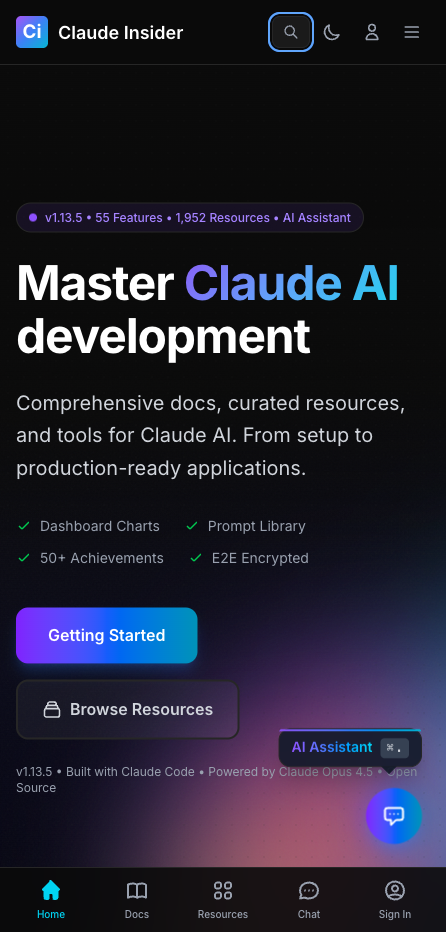
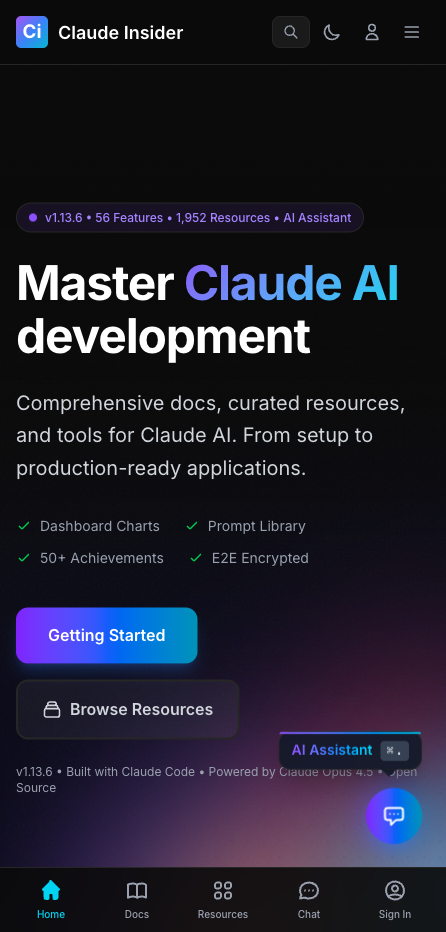
feat(mockups): update device mockups for v1.13.6
- Update MacBook terminal content to v1.13.6 with 56 features
- Show new features: Resource Submissions, Chat 4x Faster (RPC)
- Update mobile screenshot with dark theme and v1.13.6 badge

🤖 Generated with [Claude Code](https://claude.com/claude-code)

diff --git a/apps/web/components/device-mockups.tsx b/apps/web/components/device-mockups.tsx
@@ -283,7 +283,7 @@ export function IPhone17ProMax({
 }
 
 /**
- * Realistic terminal content showing Claude Insider v1.13.5
+ * Realistic terminal content showing Claude Insider v1.13.6
  */
 function MacBookTerminalContent() {
   return (
@@ -311,11 +311,11 @@ function MacBookTerminalContent() {
         <div className="mt-1">
           <span className="text-[#a371f7]">╭─</span>
           <span className="text-[#7ee787]"> Claude Insider</span>
-          <span className="text-[#8b949e]"> v1.13.5</span>
+          <span className="text-[#8b949e]"> v1.13.6</span>
         </div>
         <div>
           <span className="text-[#a371f7]">│</span>
-          <span className="text-[#8b949e]"> Features: 55 • Resources: 1,952+</span>
+          <span className="text-[#8b949e]"> Features: 56 • Resources: 1,952+</span>
         </div>
         <div>
           <span className="text-[#a371f7]">╰─</span>
@@ -323,10 +323,10 @@ function MacBookTerminalContent() {
         </div>
 
         <div className="mt-2 space-y-[3px]">
-          <div className="text-[#7ee787]">✓ ConversationView Consolidated</div>
-          <div className="text-[#7ee787]">✓ E2EE Setup Flow Improved</div>
-          <div className="text-[#7ee787]">✓ Matrix SDK Presence</div>
-          <div className="text-[#7ee787]">✓ Display Names Everywhere</div>
+          <div className="text-[#7ee787]">✓ Resource Submissions</div>
+          <div className="text-[#7ee787]">✓ Chat 4x Faster (RPC)</div>
+          <div className="text-[#7ee787]">✓ E2EE Matrix Protocol</div>
+          <div className="text-[#7ee787]">✓ 50+ Achievements</div>
           <div className="text-[#7ee787]">✓ RAG v7.0 (6,983 chunks)</div>
         </div>
 
@@ -342,7 +342,7 @@ function MacBookTerminalContent() {
 /**
  * Real screenshot of Claude Insider mobile homepage
  * Shows the actual mobile header and bottom navigation bar
- * Updated for v1.13.5 with proper aspect ratio handling and LCP optimization
+ * Updated for v1.13.6 with proper aspect ratio handling and LCP optimization
  *
  * MANDATORY MOCKUP RULES:
  * 1. Screenshot MUST be taken at 446×932 viewport (matches mockup 224:468 aspect ratio)
